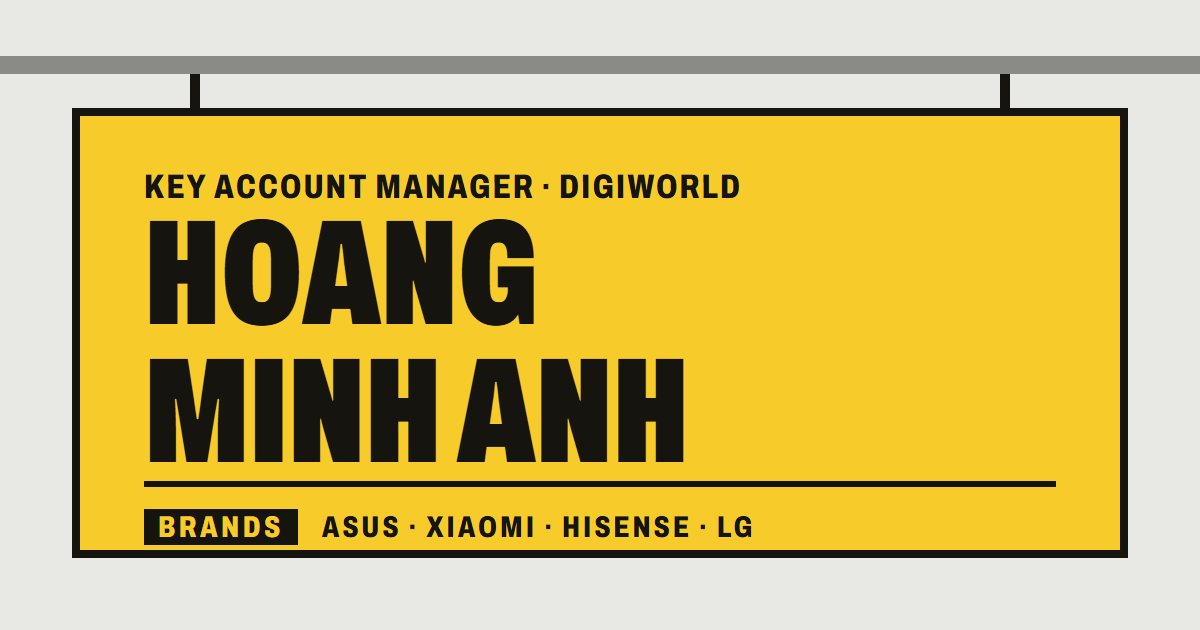
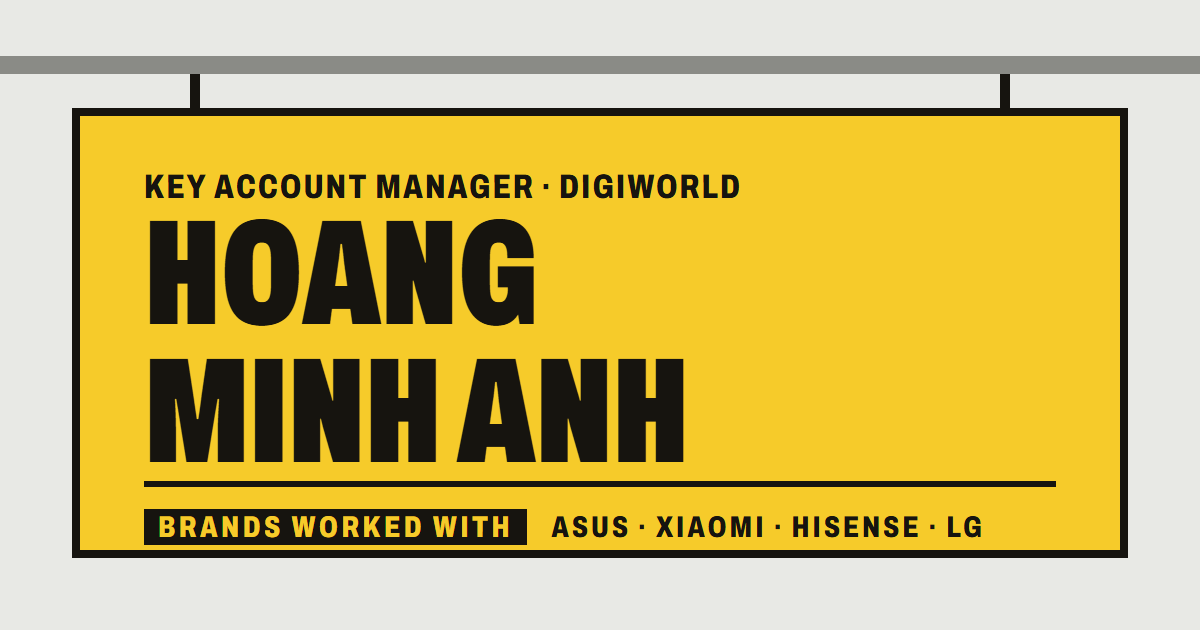
fix: share card brand wording and small type cleanups

Changed region(s): [[0.2467, 0.7841, 0.8325, 0.8746]]

diff --git a/src/components/Tag/Tag.module.css b/src/components/Tag/Tag.module.css
@@ -8,16 +8,16 @@
   0% {
     opacity: 0;
     transform: translateY(-40px) rotate(var(--swing, -2deg));
-    animation-timing-function: cubic-bezier(0.32, 0, 0.67, 0);
+    animation-timing-function: var(--ease-in-cubic);
   }
   40% {
     opacity: 1;
     transform: translateY(0) rotate(calc(var(--swing, -2deg) * -0.35));
-    animation-timing-function: cubic-bezier(0.33, 1, 0.68, 1);
+    animation-timing-function: var(--ease-out-cubic);
   }
   72% {
     transform: translateY(0) rotate(calc(var(--swing, -2deg) * 0.1));
-    animation-timing-function: cubic-bezier(0.16, 1, 0.3, 1);
+    animation-timing-function: var(--ease-out);
   }
   100% {
     opacity: 1;

diff --git a/index.html b/index.html
@@ -38,7 +38,7 @@
     <meta property="og:image:height" content="630" />
     <meta
       property="og:image:alt"
-      content="Hoang Minh Anh, Key Account Manager at DIGIWORLD. Brands: ASUS, Xiaomi, Hisense, LG."
+      content="Hoang Minh Anh, Key Account Manager at DIGIWORLD. Brands worked with: ASUS, Xiaomi, Hisense, LG."
     />
     <meta name="twitter:card" content="summary_large_image" />
     <meta name="twitter:title" content="Hoang Minh Anh — Key Account Manager" />

diff --git a/src/motion/motion.ts b/src/motion/motion.ts
@@ -1,6 +1,6 @@
 import { prefersReducedMotion } from './useReducedMotion'
 
-/** App start, for the NOW flip target (DESIGN.md Motion: --now-at is measured from t0). */
+/** App start, for the NOW flip target (NOW_AT_MS in Hero is measured from t0). */
 export const t0 = (window as { __motionT0?: number }).__motionT0 ?? performance.now()
 
 /** True when index.html armed motion (`html.js`) and reduced motion is not requested. */

diff --git a/scripts/og-image.html b/scripts/og-image.html
@@ -92,7 +92,9 @@
     <div class="tag">
       <div class="role">Key Account Manager · DIGIWORLD</div>
       <div class="name">Hoang<br />Minh Anh</div>
-      <div class="brands"><span class="lbl">Brands</span>ASUS · Xiaomi · Hisense · LG</div>
+      <div class="brands">
+        <span class="lbl">Brands worked with</span>ASUS · Xiaomi · Hisense · LG
+      </div>
     </div>
   </body>
 </html>

diff --git a/src/components/NowFlag/NowFlag.module.css b/src/components/NowFlag/NowFlag.module.css
@@ -27,7 +27,7 @@
 }
 
 /* Hero only: the flag flips in like an updated price label once its block (data-now) is
-   in view, delayed by --d so it lands near --now-at after load. */
+   in view, delayed by --d so it lands near 1250ms after load. */
 @media (prefers-reduced-motion: no-preference) {
   :global(html.js) [data-now] .flag {
     opacity: 0;

diff --git a/src/sections/Hero/Hero.tsx b/src/sections/Hero/Hero.tsx
@@ -12,6 +12,7 @@ import { useBrushSway } from '../../motion/useBrushSway'
 import { useInViewOnce } from '../../motion/useInViewOnce'
 import styles from './Hero.module.css'
 
+/** NOW flag flip target, ms from load (DESIGN.md Motion). */
 const NOW_AT_MS = 1250
 
 export function Hero() {

diff --git a/src/components/PriceGunLabel/PriceGunLabel.tsx b/src/components/PriceGunLabel/PriceGunLabel.tsx
@@ -8,6 +8,7 @@ type PriceGunLabelProps = {
   shot: number
 }
 
+// Literal copies of --ease-out / --ease-in-quart in src/styles/tokens.css (WAAPI cannot read tokens).
 const EASE_OUT = 'cubic-bezier(0.16, 1, 0.3, 1)'
 const EASE_IN_QUART = 'cubic-bezier(0.5, 0, 0.75, 0)'
 

diff --git a/src/content/types.ts b/src/content/types.ts
@@ -12,7 +12,7 @@ export type Role = {
 export type Case = {
   id: string
   title: string
-  year: '2024'
+  year: string
   award: string
   context: string
   brief: string | null

diff --git a/src/styles/tokens.css b/src/styles/tokens.css
@@ -61,7 +61,6 @@
   --dur-talker: 1500ms;
   --dur-gun: 1850ms;
   --delay-hero-tag: 380ms;
-  --now-at: 1250ms;
   --delay-role: 360ms;
   --delay-clip: 220ms;
   --stagger: 160ms;
